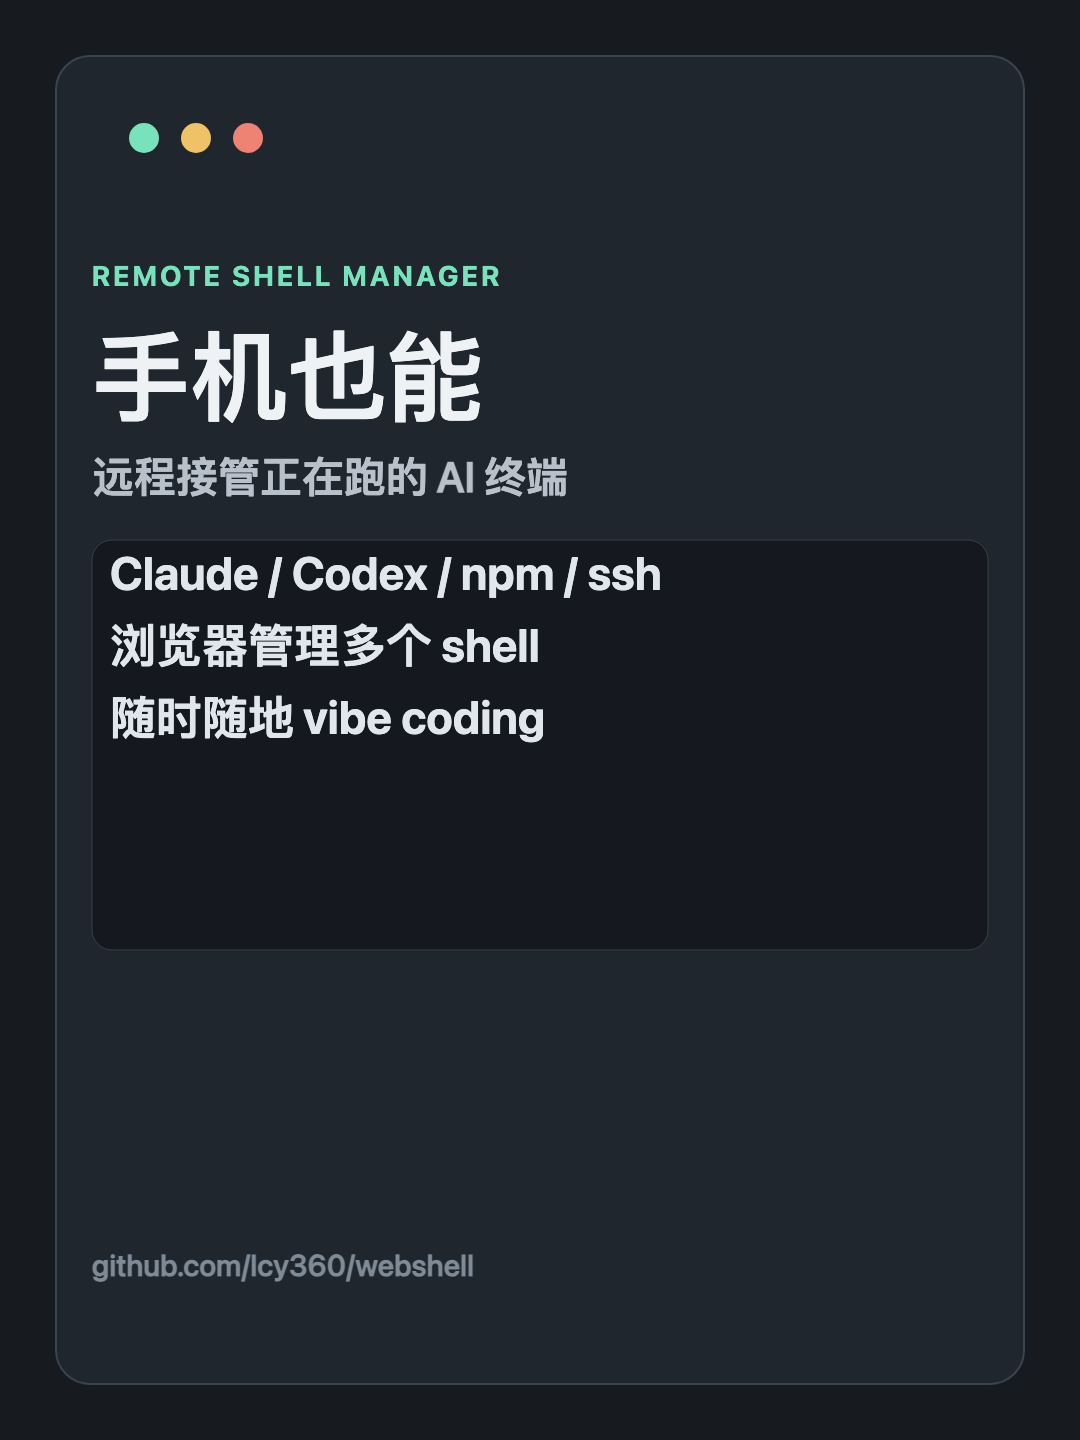
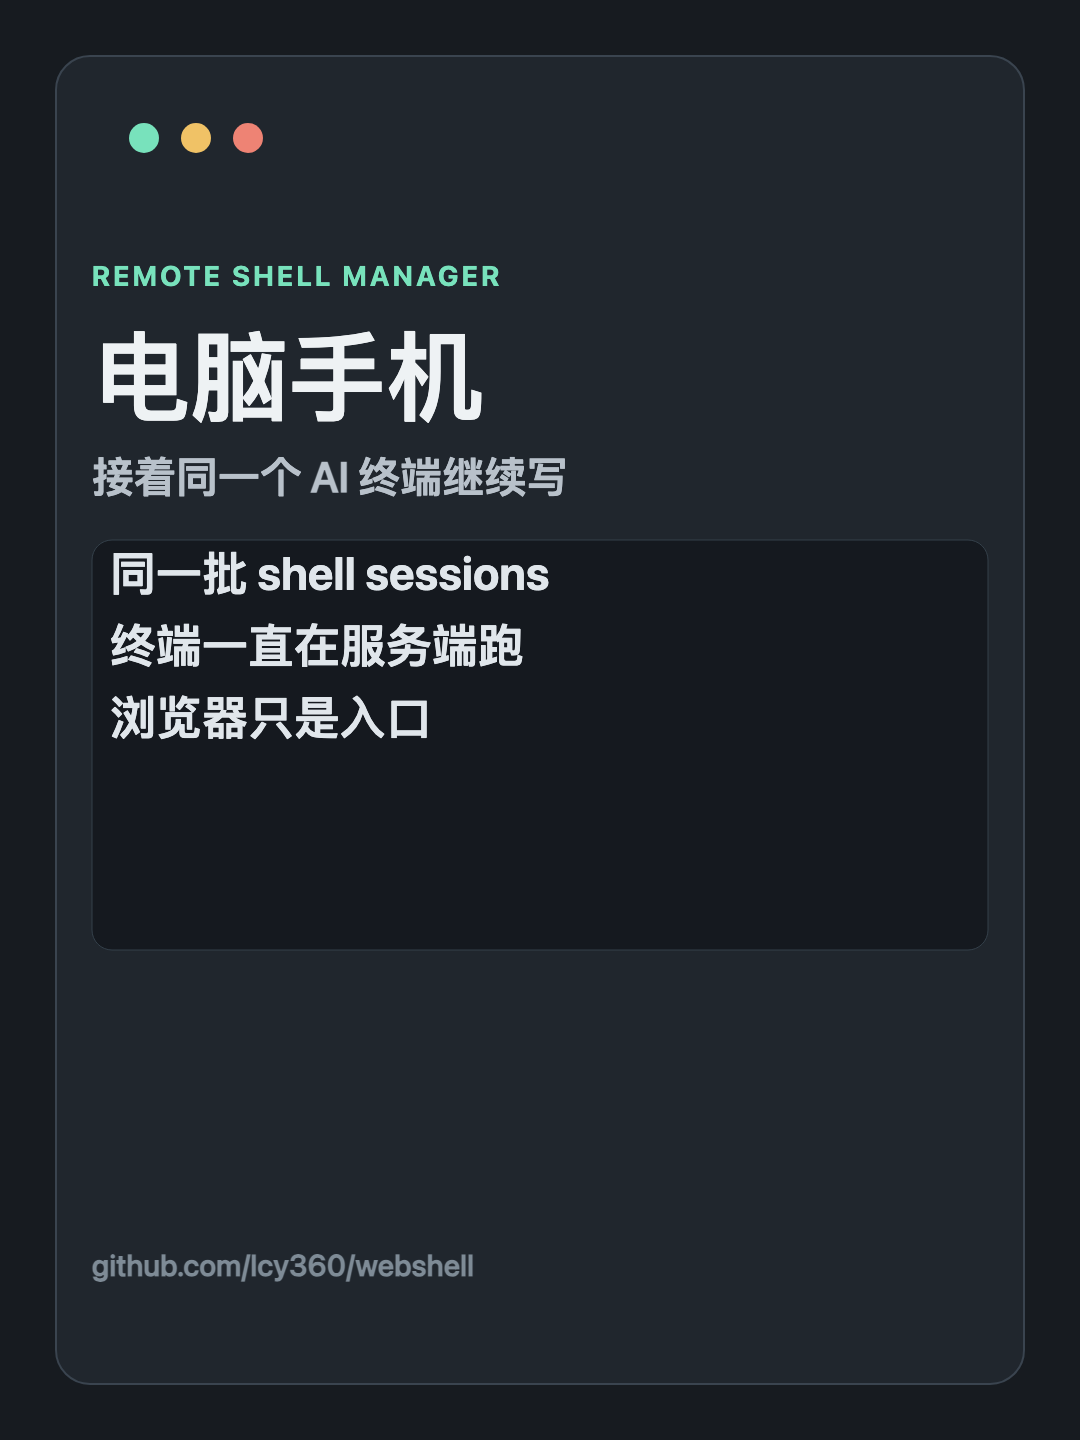
Position Webshell around cross-device session continuity

Changed region(s): [[0.0917, 0.375, 0.6111, 0.5312], [0.0917, 0.2188, 0.5194, 0.3438]]

diff --git a/marketing/xiaohongshu/note.md b/marketing/xiaohongshu/note.md
@@ -1,14 +1,14 @@
 # 标题
 
-手机也能远程开AI终端
+电脑手机接着写代码
 
 # 正文
 
-最近 vibe coding 最大的阻力，不是 AI 不会写，而是我离开电脑后就接不上了。
+最近 vibe coding 最大的阻力，不是 AI 不会写，而是我换设备后上下文断了。
 
-一个终端跑 Claude Code，一个终端跑 Codex，一个终端跑 npm dev，再开几个 shell 看日志、改配置。出门之后想看进度、补一句 prompt、重启服务，就很尴尬。
+电脑上一个终端跑 Claude Code，一个终端跑 Codex，一个终端跑 npm dev。出门后想用手机看进度、补 prompt、重启服务，最好还能接着同一个 terminal session 操作。
 
-所以我做了 Webshell：把多个本机 shell 放进浏览器统一管理，也能通过手机远程接着操作。
+所以我做了 Webshell：电脑和手机打开，看到的是同一批正在运行的 shell session。终端一直在服务端跑，浏览器只是入口。
 
 它不封装 Claude / Codex，也不替你决定工作流。你只是在浏览器里开 shell，然后自己启动：
 
@@ -24,12 +24,13 @@ ssh your-server
 1. 一个 shell 让 Claude 写功能
 2. 一个 shell 让 Codex 做 review
 3. 一个 shell 跑测试和服务
-4. 手机上看进度、补命令、继续 vibe coding
+4. 离开电脑后，手机继续接同一个 session
 
 这版重点修了几个真痛点：
 
-- session 切换不再黑屏等半天
-- 中文输入和短命令回显更跟手
+- 电脑和手机打开，都是同一个 terminal session
+- session 切换不黑屏
+- 中文输入更跟手
 - 手机端有 ↑、↓、Shift+Tab 快捷键
 - 支持登录、Docker、systemd、Cloudflare Tunnel
 - terminal 输出不落盘
@@ -46,9 +47,9 @@ npm start
 
 打开 `http://127.0.0.1:4767`。
 
-如果要外网访问，建议只绑定 localhost，再用 Cloudflare Tunnel 或 Nginx HTTPS 反代。注意：能登录的人就能执行 shell 命令，密码和访问控制一定要认真做。
+外网访问建议绑定 localhost，再用 Cloudflare Tunnel 或 Nginx HTTPS 反代。能登录的人就能执行 shell 命令，密码和访问控制一定要认真做。
 
-这个工具更像是给 AI CLI 时代补一个“远程窗口管理层”。不是替代终端，而是让多终端并行和手机远程接管都顺一点。
+这个工具更像是给 AI CLI 时代补一个“连续性层”。不是替代终端，而是让长时间运行的 AI terminal session 可以在电脑、手机、任何浏览器里接着操作。
 
 GitHub：
 https://github.com/lcy360/webshell

diff --git a/marketing/xiaohongshu/research.md b/marketing/xiaohongshu/research.md
@@ -39,3 +39,11 @@ Remote access and mobile operation should stay near the top of the story. The st
 > Mobile remote control for long-running AI CLI workflows.
 
 This combines two hooks: multi-terminal AI coding and the ability to continue from a phone without remote desktop. The copy was updated again to lead with mobile remote operation while keeping terminal management as the underlying mechanism.
+
+## Final Positioning
+
+The sharpest version is continuity across devices:
+
+> The same long-running terminal sessions, opened from desktop or phone, so coding context does not break.
+
+This is stronger than saying "mobile supported" because it explains the persistent-session advantage. Desktop and phone are just browser entry points. The terminal session stays alive on the host and can be resumed from either device.
